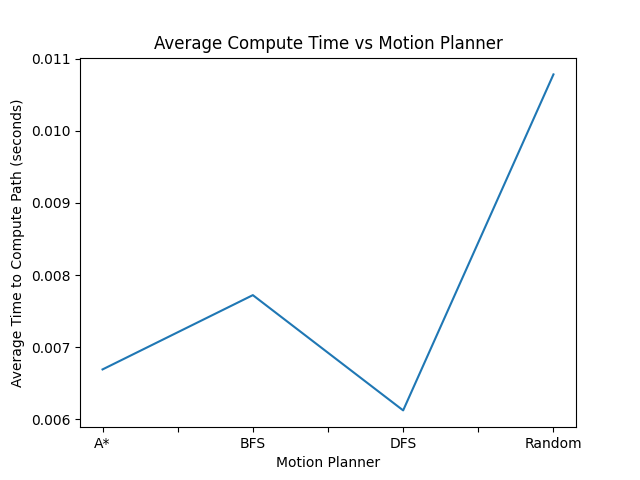
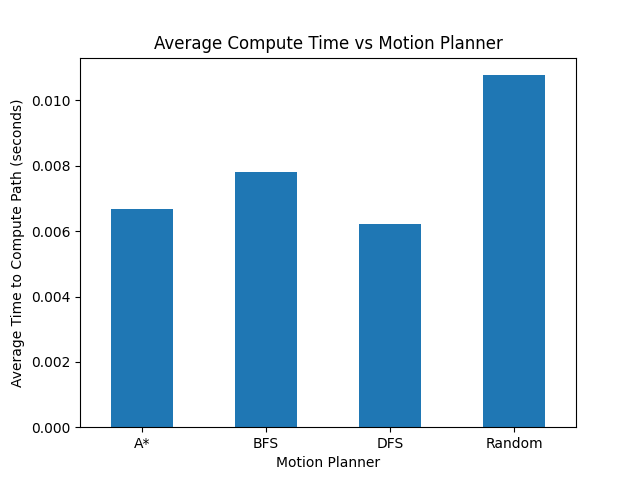
updates compute time and path efficiency scripts to output bar graphs

diff --git a/scripts/compute_time_analysis.py b/scripts/compute_time_analysis.py
@@ -12,19 +12,23 @@ from src.motion_planners import (
 )
 
 
-def main():
+def main(generate_data=False):
+    """
+    :param bool generate_data: Should the sim be run to generate data
+    """
     metrics_file_path = "../results"
-    write_line_to_file(os.path.join(metrics_file_path, "compute_time_analysis.csv"),
-                       ["motion_planner", "time_to_compute_path"], "w")
-    motion_planners = [
-        AStarPlanner(),
-        BreadthFirstSearchPlanner(),
-        DepthFirstSearchPlanner(),
-        RandomPlanner()
-    ]
-    for motion_planner in motion_planners:
-        for num_robots in range(20, 30):
-            run_analysis_sim(num_of_robots=num_robots, shelves_to_grab=30, motion_planner=motion_planner, metrics_file_path=metrics_file_path)
+    if generate_data:
+        write_line_to_file(os.path.join(metrics_file_path, "compute_time_analysis.csv"),
+                           ["motion_planner", "time_to_compute_path"], "w")
+        motion_planners = [
+            AStarPlanner(),
+            BreadthFirstSearchPlanner(),
+            DepthFirstSearchPlanner(),
+            RandomPlanner()
+        ]
+        for motion_planner in motion_planners:
+            for num_robots in range(20, 30):
+                run_analysis_sim(num_of_robots=num_robots, shelves_to_grab=30, motion_planner=motion_planner, metrics_file_path=metrics_file_path)
 
     df = pd.read_csv(os.path.join(metrics_file_path, "compute_time_analysis.csv"))
     df = df[df.time_to_compute_path != 0]
@@ -32,19 +36,22 @@ def main():
     df["motion_planner"].replace("BreadthFirstSearchPlanner", "BFS", inplace=True)
     df["motion_planner"].replace("DepthFirstSearchPlanner", "DFS", inplace=True)
     df["motion_planner"].replace("RandomPlanner", "Random", inplace=True)
-
     print(df.head())
+
     mean = df.groupby(["motion_planner"]).mean()
     print(mean)
 
-    fig = mean.plot(
+    fig = mean.plot.bar(
         xlabel='Motion Planner',
         ylabel='Average Time to Compute Path (seconds)',
         title="Average Compute Time vs Motion Planner",
-        legend=False)
+        legend=False,
+        rot=0
+    )
 
     fig.figure.savefig('../results/compute_time_analysis.png')
 
 
 if __name__ == "__main__":
-    main()
+    generate_data = False
+    main(generate_data=generate_data)

diff --git a/scripts/path_efficiency_analysis.py b/scripts/path_efficiency_analysis.py
@@ -12,22 +12,26 @@ from src.motion_planners import (
 )
 
 
-def main():
+def main(generate_data=False):
+    """
+    :param bool generate_data: Should the sim be run to generate data
+    """
     metrics_file_path = "../results"
-    write_line_to_file(os.path.join(metrics_file_path, "path_efficiency_analysis.csv"),
-                       ["motion_planner", "path_efficiency"], "w")
-    motion_planners = [
-        AStarPlanner(),
-        BreadthFirstSearchPlanner(),
-        DepthFirstSearchPlanner(),
-        RandomPlanner()
-    ]
-    for motion_planner in motion_planners:
-        for num_robots in range(20, 30):
-            run_analysis_sim(num_of_robots=num_robots, shelves_to_grab=30, motion_planner=motion_planner, metrics_file_path=metrics_file_path)
+
+    if generate_data:
+        write_line_to_file(os.path.join(metrics_file_path, "path_efficiency_analysis.csv"),
+                           ["motion_planner", "path_efficiency"], "w")
+        motion_planners = [
+            AStarPlanner(),
+            BreadthFirstSearchPlanner(),
+            DepthFirstSearchPlanner(),
+            RandomPlanner()
+        ]
+        for motion_planner in motion_planners:
+            for num_robots in range(20, 30):
+                run_analysis_sim(num_of_robots=num_robots, shelves_to_grab=30, motion_planner=motion_planner, metrics_file_path=metrics_file_path)
 
     df = pd.read_csv(os.path.join(metrics_file_path, "path_efficiency_analysis.csv"))
-    print(df.head())
     df = df[df.path_efficiency != 0]
     df["motion_planner"].replace("AStarPlanner", "A*", inplace=True)
     df["motion_planner"].replace("BreadthFirstSearchPlanner", "BFS", inplace=True)
@@ -38,14 +42,17 @@ def main():
     mean = df.groupby(["motion_planner"]).mean()
     print(mean)
 
-    fig = mean.plot(
+    fig = mean.plot.bar(
         xlabel='Motion Planner',
         ylabel='Average Path Efficiency (%)',
         title="Average Path Efficiency vs Motion Planner",
-        legend=False)
+        legend=False,
+        rot=0
+    )
 
     fig.figure.savefig('../results/path_efficiency_analysis.png')
 
 
 if __name__ == "__main__":
-    main()
+    generate_data = False
+    main(generate_data=generate_data)
